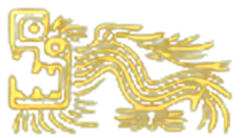
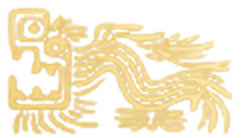
feat(demo2): Serpiente con tono oro vibrante que hace juego con el título y calibración de la animación a 3 segundos de recorrido continuo y perceptible

diff --git a/fondos.css b/fondos.css
@@ -56,11 +56,14 @@ body {
     filter: drop-shadow(0 3px 12px rgba(0, 0, 0, 0.65)) drop-shadow(0 1px 3px rgba(0, 0, 0, 0.9));
 }
 
-/* Animaciones de Entrada: 'CAFÉ' entra de la derecha, 'ANCONA' entra de la izquierda (3 segundos, nítido y sin mareos) */
+/* Animaciones de Entrada: 'CAFÉ' entra de la derecha, 'ANCONA' entra de la izquierda (3 segundos reales, perceptibles y fluidos) */
 @keyframes slideInFromRight {
     0% {
         opacity: 0;
-        transform: translateX(40px);
+        transform: translateX(105px);
+    }
+    20% {
+        opacity: 0.8;
     }
     100% {
         opacity: 1;
@@ -71,7 +74,10 @@ body {
 @keyframes slideInFromLeft {
     0% {
         opacity: 0;
-        transform: translateX(-40px);
+        transform: translateX(-105px);
+    }
+    20% {
+        opacity: 0.8;
     }
     100% {
         opacity: 1;
@@ -82,7 +88,10 @@ body {
 @keyframes fadeInScale {
     0% {
         opacity: 0;
-        transform: scale(0.92);
+        transform: scale(0.86);
+    }
+    25% {
+        opacity: 0.8;
     }
     100% {
         opacity: 1;
@@ -91,29 +100,32 @@ body {
 }
 
 .anim-cafe-right {
-    animation: slideInFromRight 3s cubic-bezier(0.16, 1, 0.3, 1) forwards;
+    animation: slideInFromRight 3s cubic-bezier(0.25, 0.1, 0.25, 1) forwards;
     opacity: 0;
     will-change: transform, opacity;
 }
 
 .anim-ancona-left {
-    animation: slideInFromLeft 3s cubic-bezier(0.16, 1, 0.3, 1) forwards;
+    animation: slideInFromLeft 3s cubic-bezier(0.25, 0.1, 0.25, 1) forwards;
     opacity: 0;
     will-change: transform, opacity;
 }
 
 .anim-serpiente-fade {
-    animation: fadeInScale 3s cubic-bezier(0.16, 1, 0.3, 1) forwards;
+    animation: fadeInScale 3s cubic-bezier(0.25, 0.1, 0.25, 1) forwards;
     opacity: 0;
     will-change: transform, opacity;
 }
 
-/* Optimización de animación para pantallas móviles (desplazamiento aún más sutil y suave) */
+/* Optimización de animación para pantallas móviles */
 @media (max-width: 640px) {
     @keyframes slideInFromRight {
         0% {
             opacity: 0;
-            transform: translateX(24px);
+            transform: translateX(60px);
+        }
+        20% {
+            opacity: 0.8;
         }
         100% {
             opacity: 1;
@@ -124,7 +136,10 @@ body {
     @keyframes slideInFromLeft {
         0% {
             opacity: 0;
-            transform: translateX(-24px);
+            transform: translateX(-60px);
+        }
+        20% {
+            opacity: 0.8;
         }
         100% {
             opacity: 1;

diff --git a/index.html b/index.html
@@ -66,7 +66,7 @@
             
             <!-- Logo Oficial de la Serpiente Emplumada de Café Ancona -->
             <div class="flex flex-col items-center justify-center mb-3 anim-serpiente-fade">
-                <img src="assets/serpiente_hd.png" alt="Serpiente Café Ancona" class="h-16 sm:h-20 md:h-24 w-auto object-contain filter drop-shadow-[0_4px_14px_rgba(0,0,0,0.7)]">
+                <img src="assets/serpiente_dorada.png" alt="Serpiente Café Ancona" class="h-16 sm:h-20 md:h-24 w-auto object-contain filter drop-shadow-[0_4px_16px_rgba(0,0,0,0.85)] drop-shadow-[0_1px_4px_rgba(0,0,0,0.9)]">
             </div>
 
             <!-- NOMBRE CON ANIMACIÓN CONVERGENTE: 'CAFÉ' DE LA DERECHA Y 'ANCONA' DE LA IZQUIERDA -->
@@ -119,7 +119,7 @@
     <div id="promos-container" class="max-w-6xl mx-auto px-4 sm:px-8 pt-4 pb-4 w-full hidden relative z-10">
         <div class="flex items-center justify-between mb-3 pb-2 border-b border-[#E5E0D4]">
             <div class="flex items-center gap-2.5">
-                <img src="assets/serpiente_hd.png" alt="Café Ancona" class="h-5 sm:h-6 w-auto object-contain flex-shrink-0 filter drop-shadow-[0_1px_2px_rgba(0,0,0,0.25)]">
+                <img src="assets/serpiente_dorada.png" alt="Café Ancona" class="h-5 sm:h-6 w-auto object-contain flex-shrink-0 filter drop-shadow-[0_1px_3px_rgba(0,0,0,0.3)]">
                 <h2 class="font-titulo text-lg sm:text-xl font-bold uppercase tracking-wider text-[#141615]">Obras & Maridajes del Mes</h2>
             </div>
             <span class="font-mono text-[10px] text-[#C5A059] uppercase tracking-widest font-bold">ESPECIALES</span>
@@ -480,7 +480,7 @@
                         <!-- Encabezado de Sección en la Carta -->
                         <div class="flex items-center justify-between mb-4 pb-2 border-b border-[#141615]">
                             <div class="flex items-center gap-2.5">
-                                <img src="assets/serpiente_hd.png" alt="Serpiente Café Ancona" class="h-6 sm:h-7 w-auto object-contain flex-shrink-0 filter drop-shadow-[0_1px_2px_rgba(0,0,0,0.25)]">
+                                <img src="assets/serpiente_dorada.png" alt="Serpiente Café Ancona" class="h-6 sm:h-7 w-auto object-contain flex-shrink-0 filter drop-shadow-[0_1px_3px_rgba(0,0,0,0.3)]">
                                 <h2 class="font-titulo text-xl sm:text-2xl font-bold uppercase tracking-wide text-[#141615]">${categoria}</h2>
                             </div>
                             ${esCatExposiciones 
